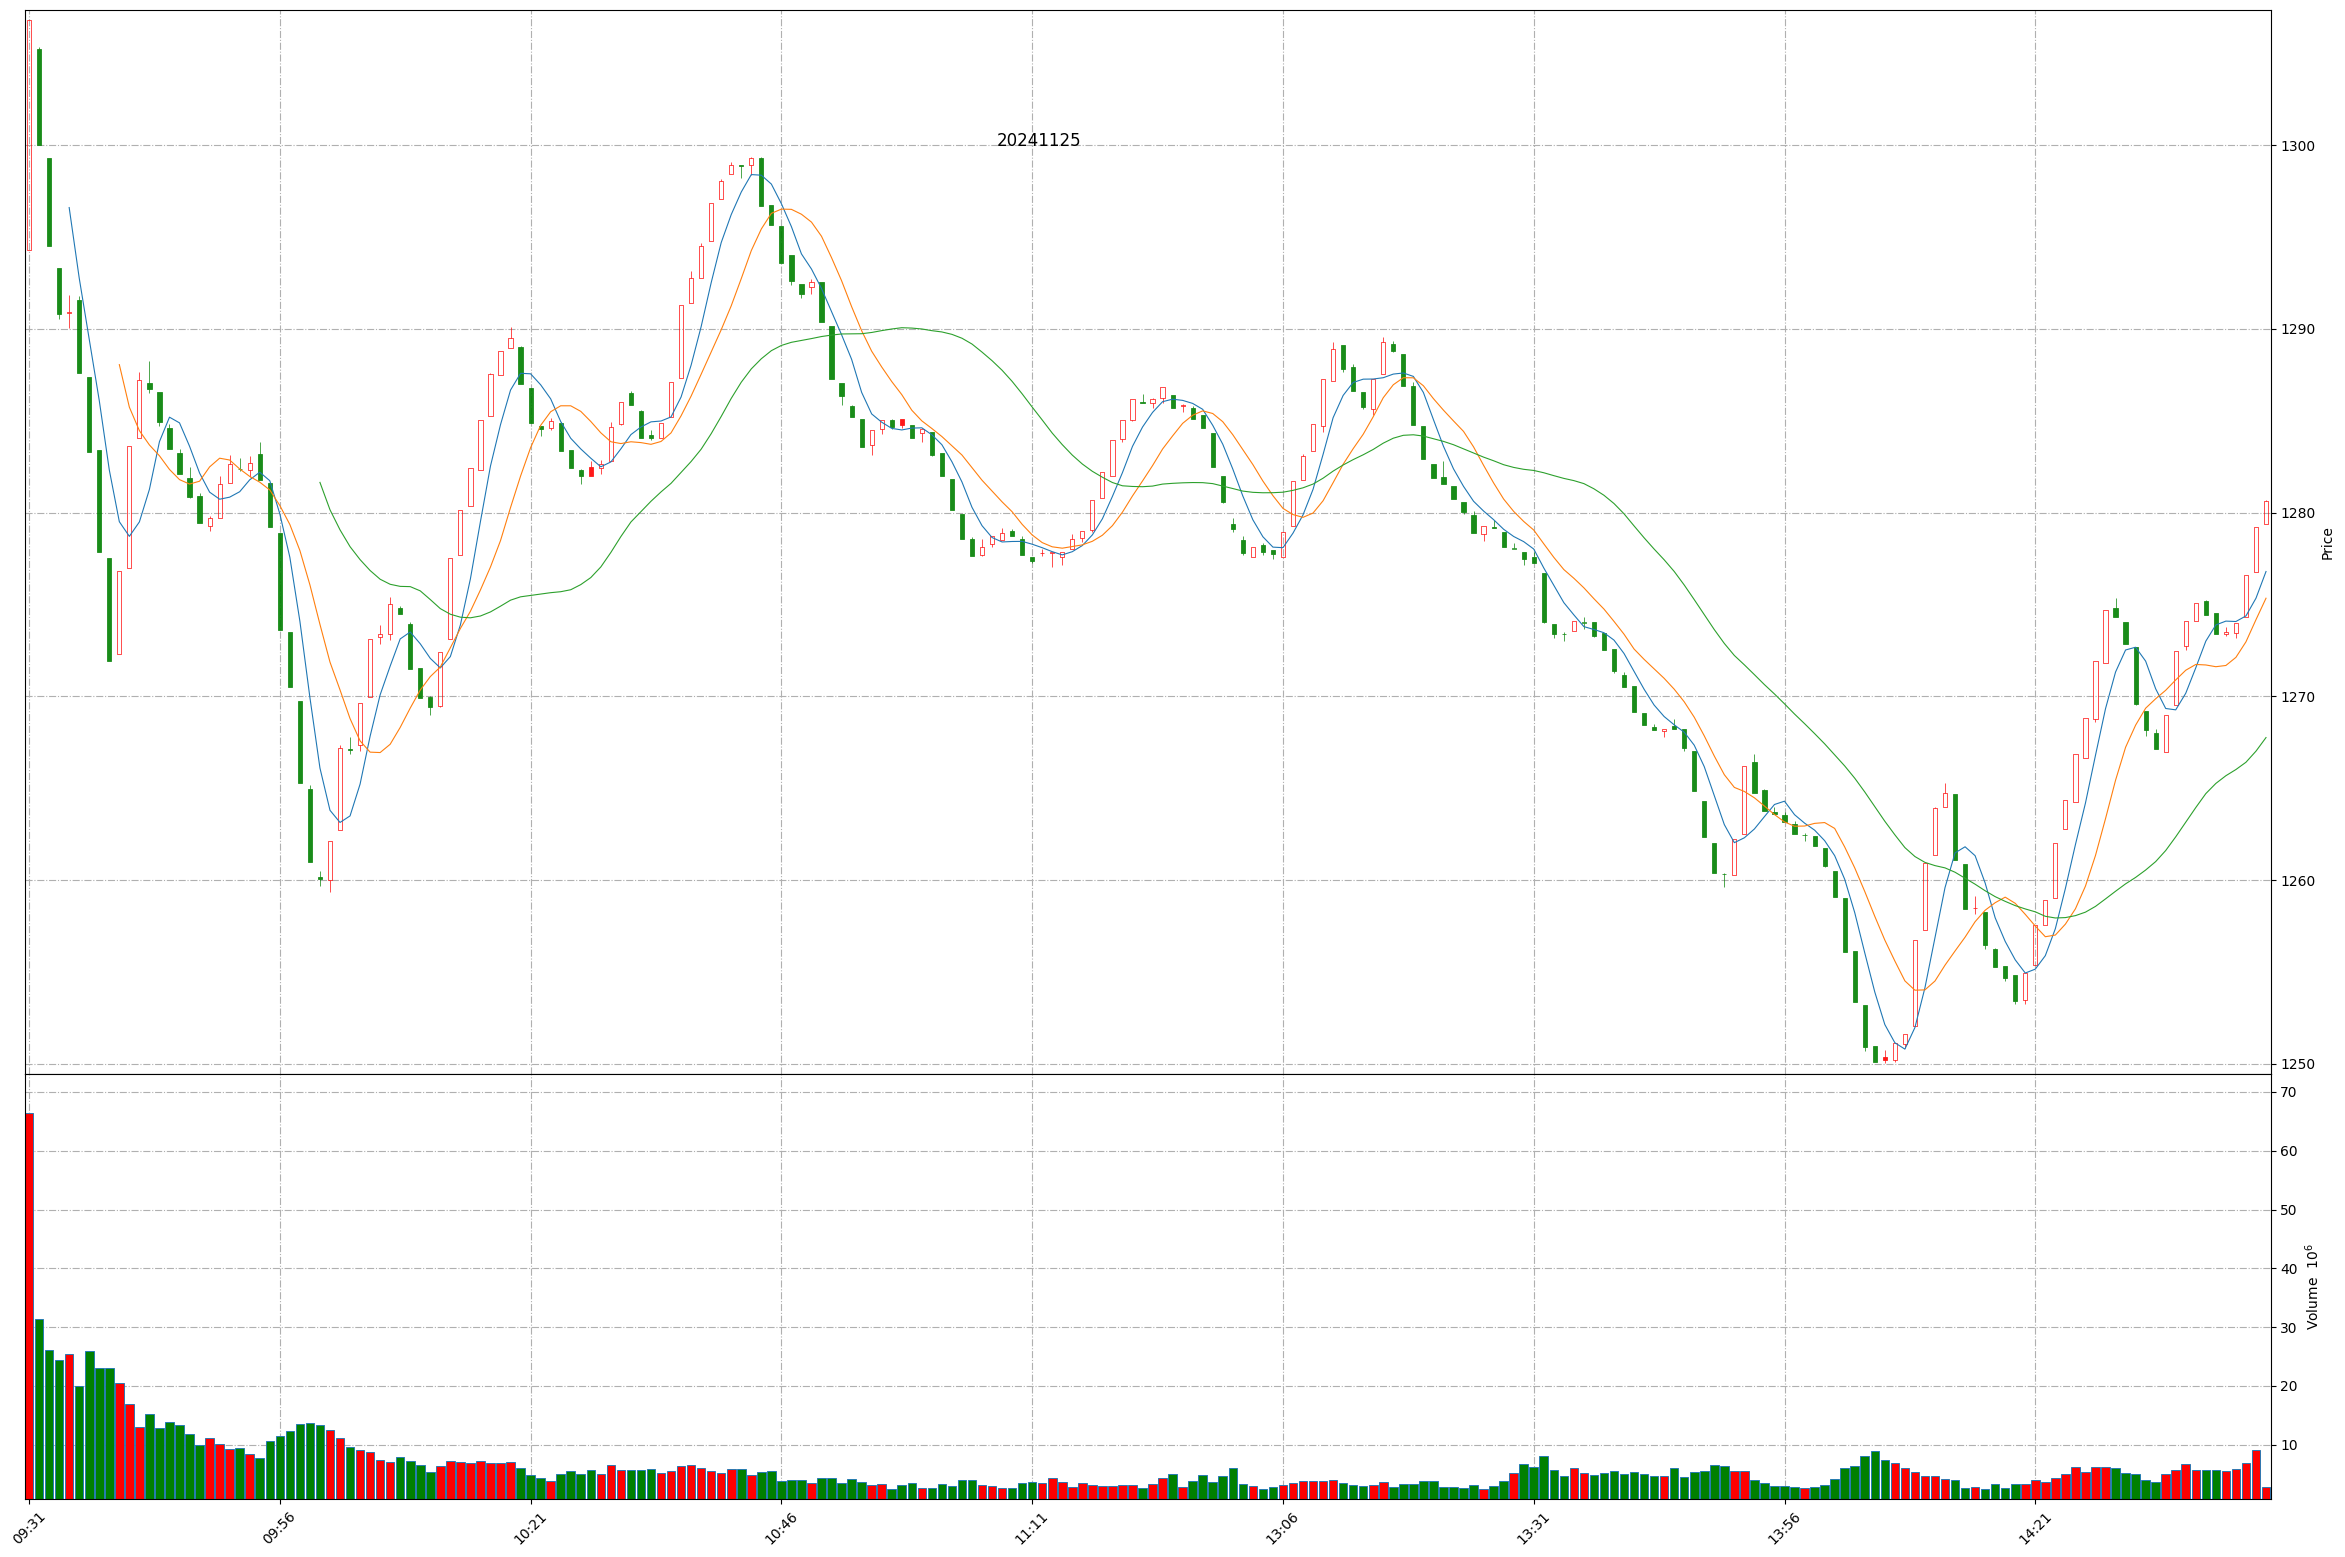
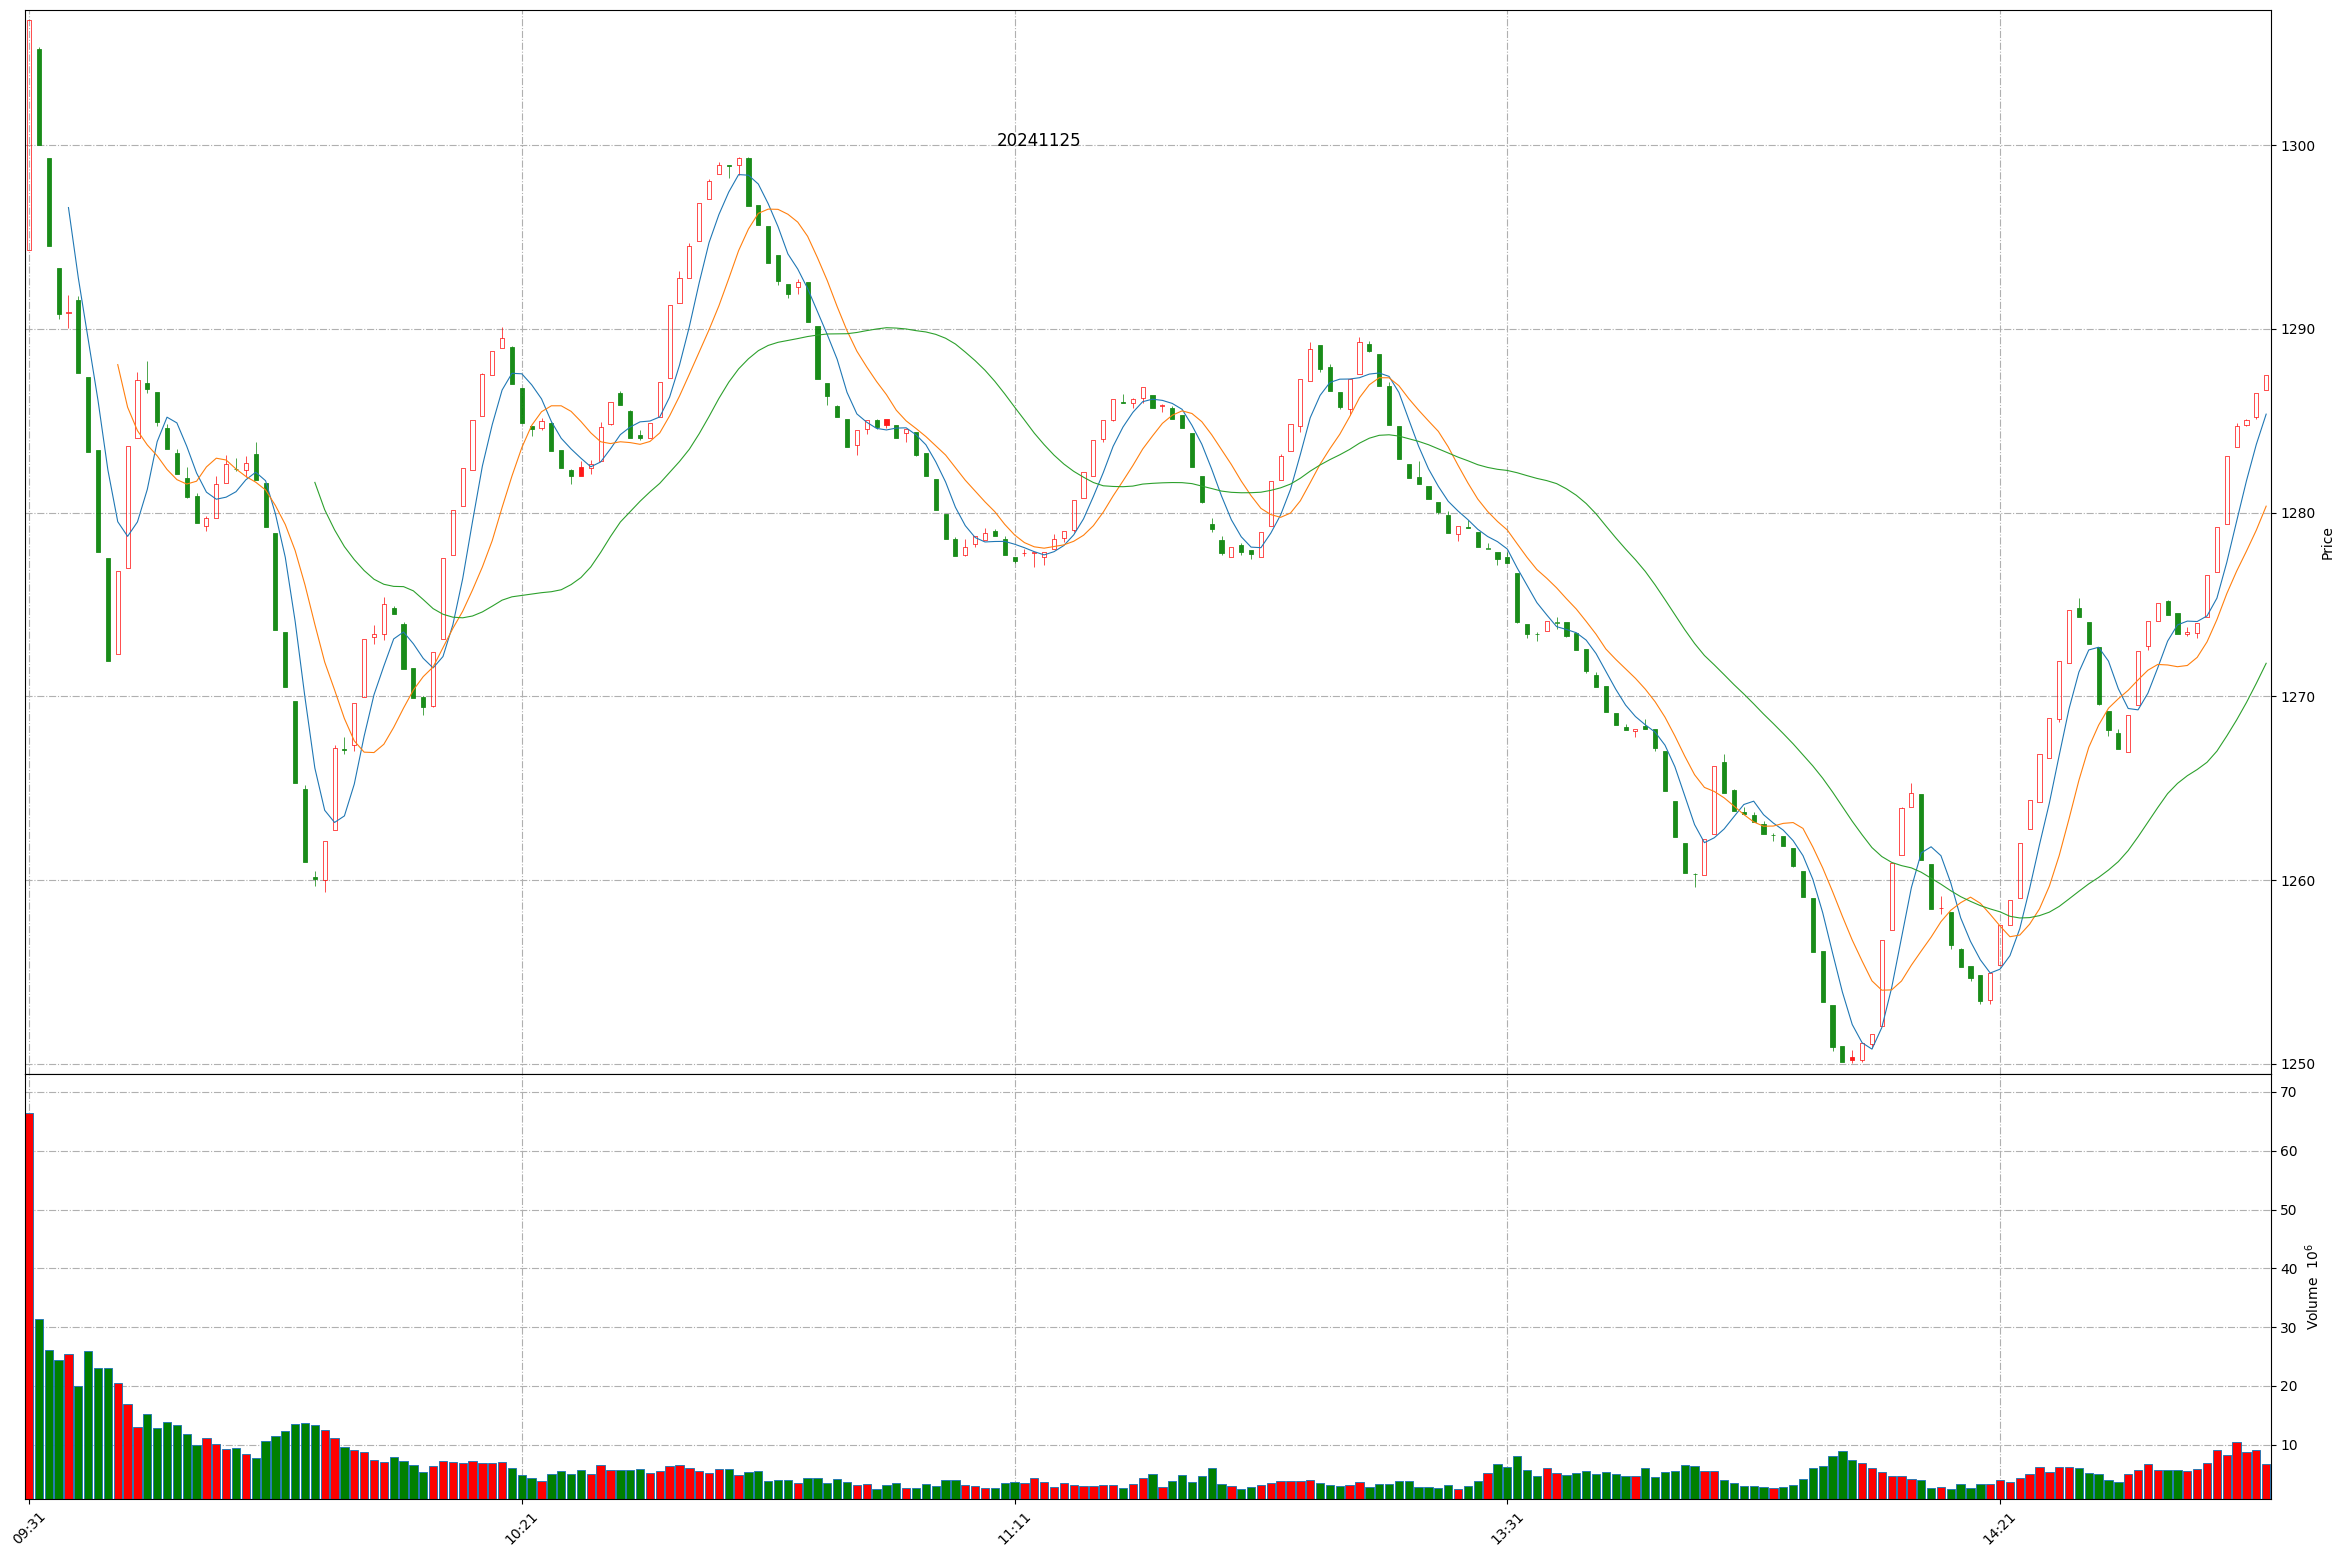
Github action update at 2024-11-25 14:47:55.

diff --git a/README.md b/README.md
@@ -1,11 +1,11 @@
 
 # Daily-A-share-market-quotes 每日 A 股指数（5min 更新）- 20241125
 
-### 上证指数 20241125 14:43
+### 上证指数 20241125 14:47
 ![](./fig/2024/11/20241125-sh000001.png)
 
-### 深证成指 20241125 14:43
+### 深证成指 20241125 14:47
 ![](./fig/2024/11/20241125-sz399001.png)
 
-### 北证50 20241125 14:43
+### 北证50 20241125 14:47
 ![](./fig/2024/11/20241125-bj899050.png)
